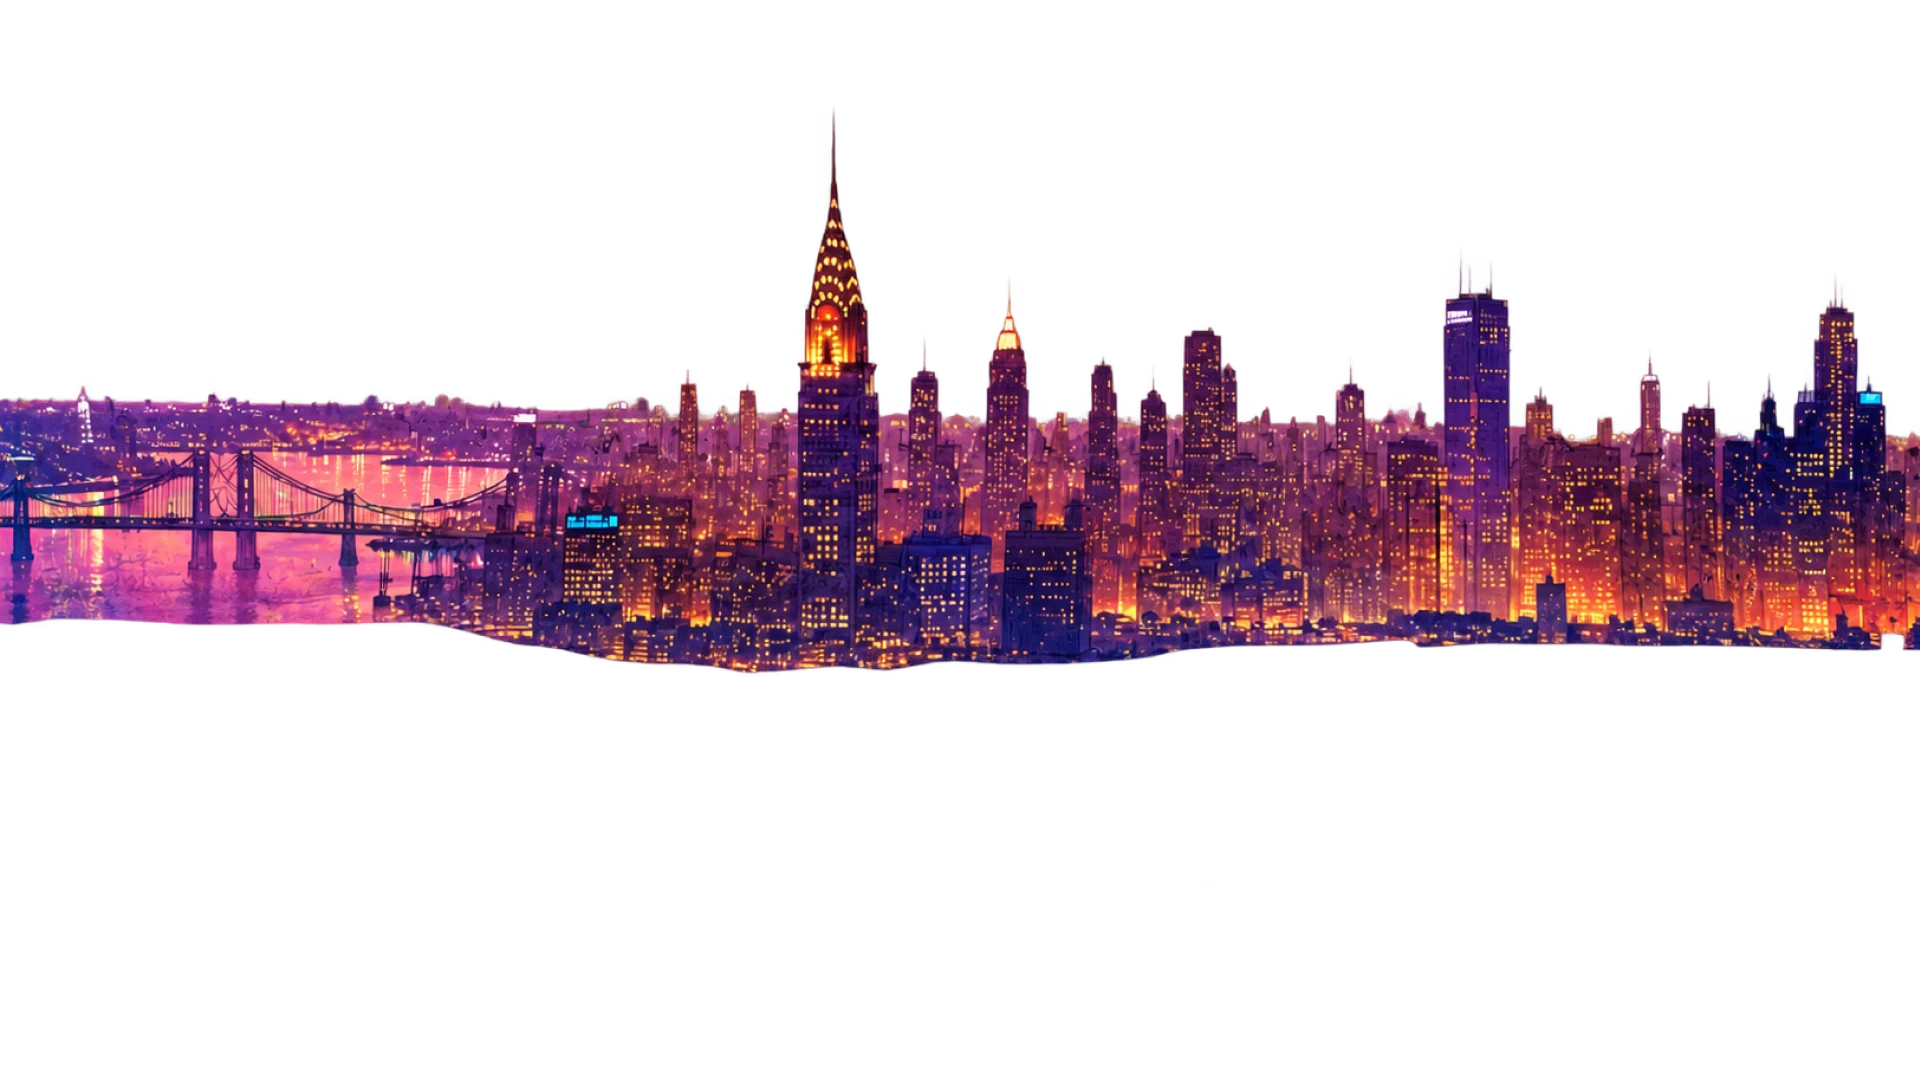
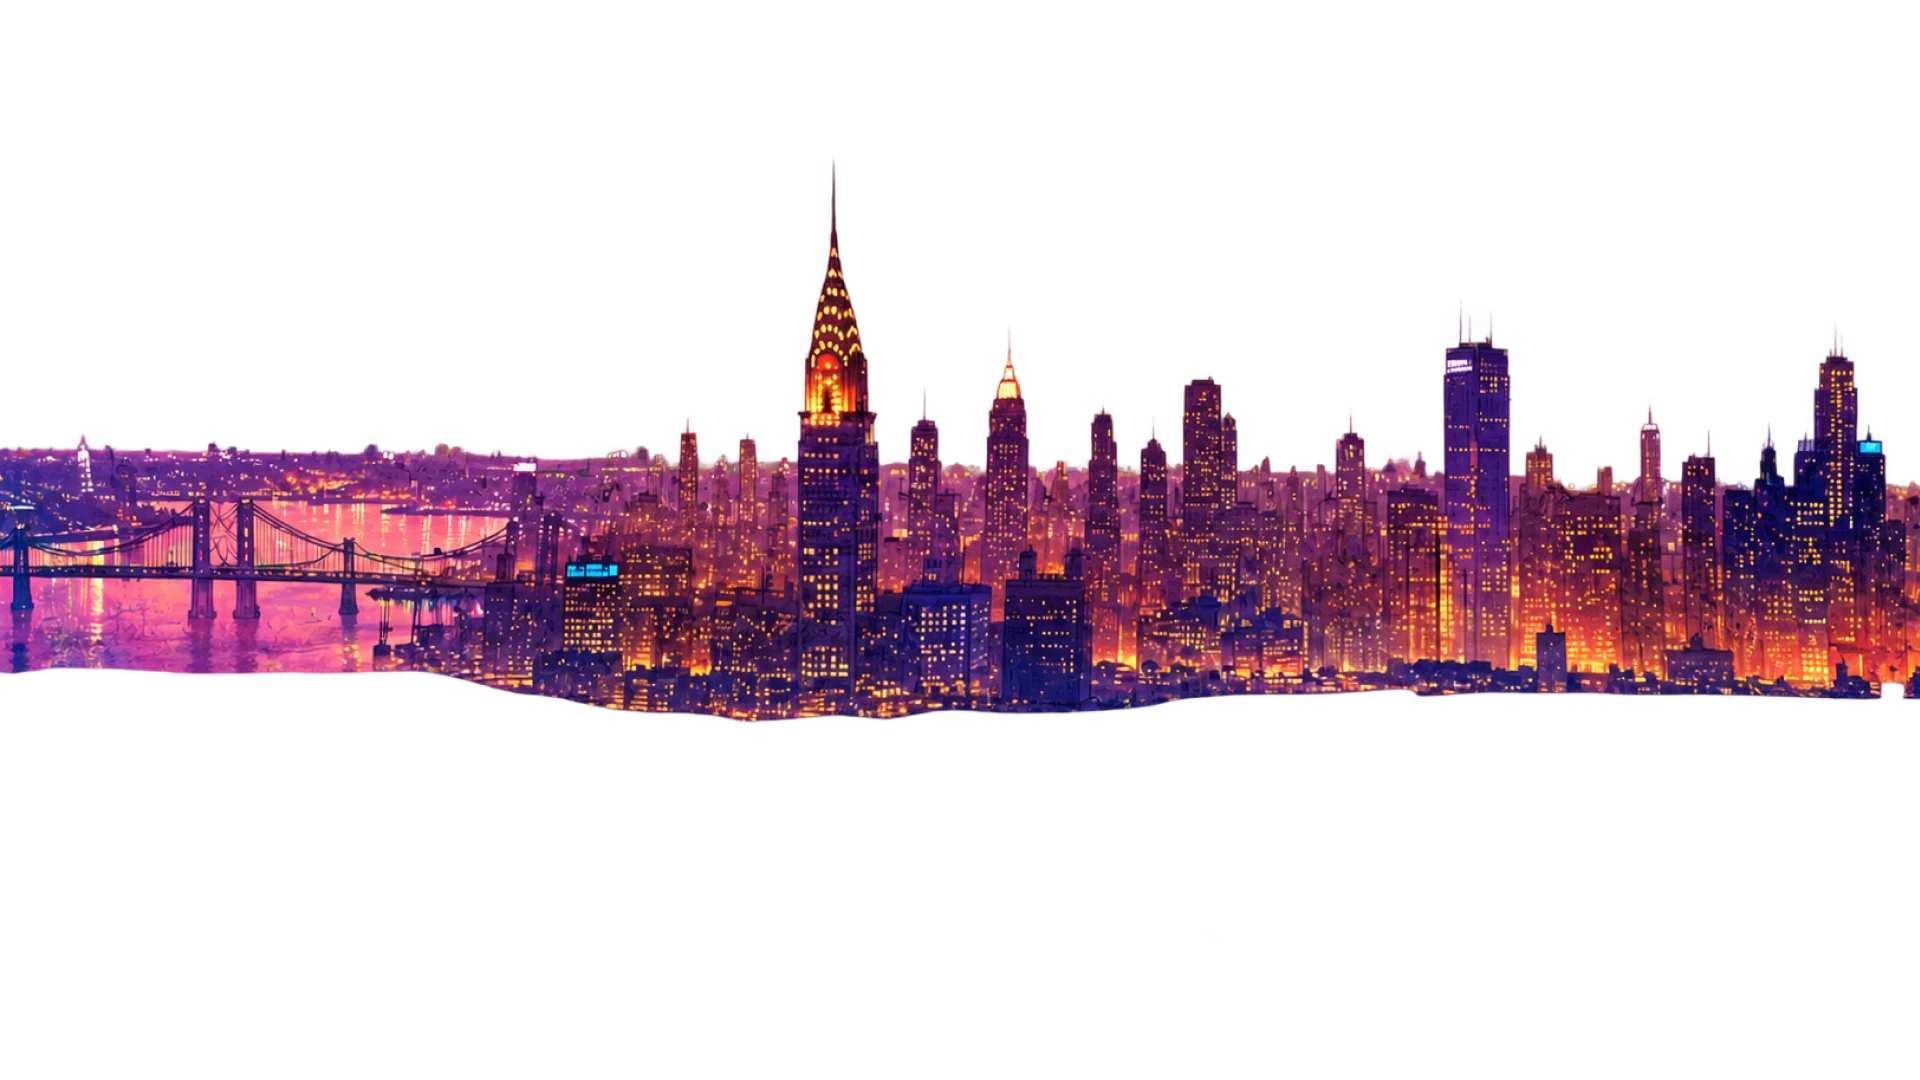
v0.0.5
animação da hero agora é no scroll

Changed region(s): [[0.0, 0.1528, 1.0, 0.6722]]

diff --git a/src/sections/Hero/Hero.jsx b/src/sections/Hero/Hero.jsx
@@ -1,55 +1,68 @@
 import React, { useRef } from 'react'
 import style from './Hero.module.css'
-//import datas
 import { heroLayersData } from '../../data/data-hero/imgs/consumeImg'
-import { useGSAP } from '@gsap/react'
 import gsap from 'gsap'
+import { useGSAP } from '@gsap/react'
+import { ScrollTrigger } from 'gsap/ScrollTrigger'
 
-
+gsap.registerPlugin(ScrollTrigger)
 
 const Hero = ({ isMobile }) => {
 const containerRef = useRef(null)
 
-
-
-
-
-
 useGSAP(
-
-
-
-
-
     () => {
-    //0.Timeline começo
-    const apresentation = gsap.timeline({
-        delay:4
+gsap.set(`.${style.layer5}`, { yPercent: -55 ? 0 : 0 })
+gsap.set([`.${style.layer4}`, `.${style.layer3}`, `.${style.layer2}`], {
+yPercent: 150,
+})
+gsap.set(`.${style.layer1}`, { yPercent: 150 })
+    // 0. Sub-timeline Apresentação
+    function createApresentacaoTimeline() {
+        const tl = gsap.timeline()
+        // Adicione animações de apresentação aqui se necessário
+        return tl
+    }
+
+    // 1. Sub-timeline Descer Câmera
+    function createDescerCameraTimeline() {
+        const tl = gsap.timeline({
+        defaults: { duration: 1, ease: 'power3.out' },
+        })
+
+        tl.to(`.${style.layer5} img`, { yPercent: -55 }, 0)
+        .to(`.${style.layer4}`, { yPercent: 0 }, 0.05)
+        .to(`.${style.layer3}`, { yPercent: 0 }, 0.05)
+        .to(`.${style.layer2}`, { yPercent: 0 }, 0.15)
+        .to(`.${style.layer1}`, { yPercent: 0 }, 0.2)
+        return tl
+    }
+
+    const masterTL = gsap.timeline({
+        scrollTrigger: {
+        trigger: containerRef.current, 
+        start: 'top top',
+        end: '+=800',
+        scrub: 1,
+        pin: true,
+        markers: true,
+        },
     })
 
+    masterTL
+        .add(createApresentacaoTimeline())
+        .add(createDescerCameraTimeline())
 
-    // 1. TIMELINE Descer camera
-    const descerCamera = gsap.timeline({
-        defaults: { duration: 2.5, ease: 'power3.inOut' },
-    },'>')
-apresentation.add(descerCamera);
-    descerCamera
-        .to(`.${style.layer5} img`, {yPercent: -55}, 1.5)
-        .from(`.${style.layer4}`, { yPercent: 150 }, 1.55)
-        .from(`.${style.layer3}`, { yPercent: 150 }, 1.6)
-        .from(`.${style.layer2}`, { yPercent: 150 }, 1.65)
-        .from(`.${style.layer1}`, { yPercent: 150 }, 1.7)
-
-    // 2. LÓGICA DE PARALLAX
+    // 3. Lógica Paralaxe Mouse / Float Mobile
     if (isMobile) {
-        descerCamera.add(() => {
+        // Flutuação contínua em telas menores
         gsap.to(`.${style.layer1}`, { y: -10, x: 10, duration: 3, repeat: -1, yoyo: true, ease: 'sine.inOut' })
         gsap.to(`.${style.layer2}`, { y: -8, x: 8, duration: 4, repeat: -1, yoyo: true, ease: 'sine.inOut' })
         gsap.to(`.${style.layer3}`, { y: -6, x: 6, duration: 5, repeat: -1, yoyo: true, ease: 'sine.inOut' })
-        gsap.to(`.${style.layer4}`, { y: -4, x: 4, duration: 6, repeat: -1, yoyo: true, ease: 'sine.inOut' })
-        gsap.to(`.${style.layer5}`, { y: -2, duration: 7, repeat: -1, yoyo: true, ease: 'sine.inOut' })
-        })
+        gsap.to(`.${style.layer4}`, { y: -4, x: 4, duration: 6, repeat: -1, yoyo: true, ease: 'stoinOut' })
+        gsap.to(`.${sty.layer5}`, { y: -2, duration: 7, repeat: -1, yoyo: true, ease: 'sine.inOut' })
     } else {
+        // Paralaxe via Mouse com quickTo
         const xToLayer1 = gsap.quickTo(`.${style.layer1}`, 'x', { duration: 0.8, ease: 'power2.out' })
         const yToLayer1 = gsap.quickTo(`.${style.layer1}`, 'y', { duration: 0.8, ease: 'power2.out' })
         const xToLayer2 = gsap.quickTo(`.${style.layer2}`, 'x', { duration: 1.2, ease: 'power2.out' })
@@ -87,31 +100,26 @@ apresentation.add(descerCamera);
 
 return (
     <section ref={containerRef} className={style.section}>
-    {/* Camada 5: Céu */}
     <picture className={`${style.layer5} ${style.heroParalax}`}>
         <source media="(max-width: 768px)" srcSet={heroLayersData.layer5.mobile} />
         <img src={heroLayersData.layer5.desktop} alt={heroLayersData.layer5.alt} />
     </picture>
 
-    {/* Camada 4: Cidade Fundo */}
     <picture className={`${style.layer4} ${style.heroParalax}`}>
         <source media="(max-width: 768px)" srcSet={heroLayersData.layer4.mobile} />
         <img src={heroLayersData.layer4.desktop} alt={heroLayersData.layer4.alt} />
     </picture>
 
-    {/* Camada 3: Prédios */}
     <picture className={`${style.layer3} ${style.heroParalax}`}>
         <source media="(max-width: 768px)" srcSet={heroLayersData.layer3.mobile} />
         <img src={heroLayersData.layer3.desktop} alt={heroLayersData.layer3.alt} />
     </picture>
 
-    {/* Camada 2: Elementos */}
     <picture className={`${style.layer2} ${style.heroParalax}`}>
         <source media="(max-width: 768px)" srcSet={heroLayersData.layer2.mobile} />
         <img src={heroLayersData.layer2.desktop} alt={heroLayersData.layer2.alt} />
     </picture>
 
-    {/* Camada 1: Miles */}
     <picture className={`${style.layer1} ${style.heroParalax}`}>
         <source media="(max-width: 768px)" srcSet={heroLayersData.layer1.mobile} />
         <img src={heroLayersData.layer1.desktop} alt={heroLayersData.layer1.alt} />

diff --git a/src/sections/Hero/Hero.module.css b/src/sections/Hero/Hero.module.css
@@ -23,34 +23,36 @@ object-position: center center;
 display: block;
 }
 
-
-/* Margem de segurança via scale em cada camada */
+/* Camadas e suas posições iniciais combinando translateY e scale */
 .layer5 {
 z-index: 1;
-transform: scale(1.08); /* Fundo move pouco -> 5% de zoom */
+transform: translateY(0%) scale(1.08);
 overflow: hidden;
 }
+
 .layer5 img {
 height: 200%;
 max-width: none;
 object-fit: cover;
 object-position: top center;
 }
+
 .layer4 {
 z-index: 2;
-transform: scale(1.08); /* Fundo move pouco -> 5% de zoom */
+transform: translateY(150%) scale(1.08);
 }
+
 .layer3 {
 z-index: 3;
-transform: scale(1.08); /* Fundo move pouco -> 5% de zoom */
+transform: translateY(150%) scale(1.08);
 }
 
 .layer2 {
 z-index: 4;
-transform: scale(1.08); /* Meio move médio -> 8% de zoom */
+transform: translateY(150%) scale(1.08);
 }
 
 .layer1 {
 z-index: 5;
-transform: scale(1.12); /* Miles move mais -> 12% de zoom */
+transform: translateY(150%) scale(1.12);
 }
